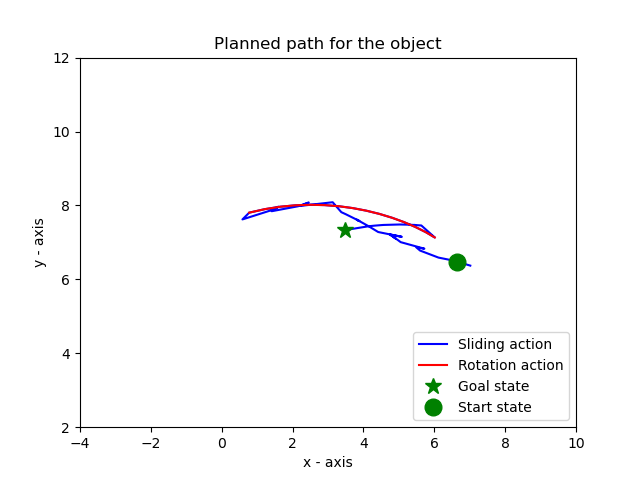
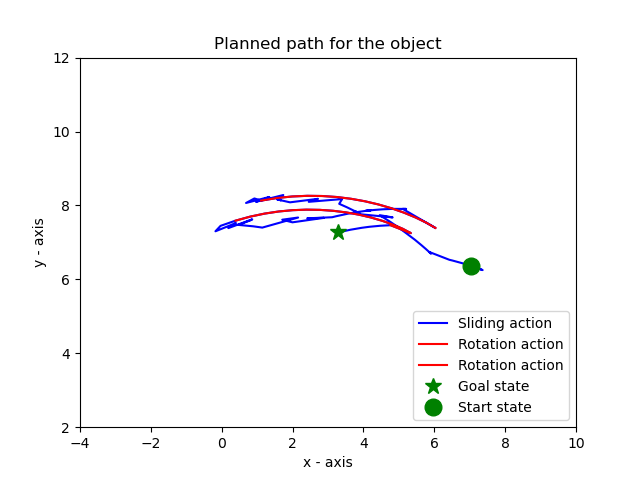
New Plot

Changed region(s): [[0.3438, 0.4062, 0.6875, 0.5312], [0.6562, 0.6562, 0.875, 0.75], [0.6875, 0.5312, 0.75, 0.5938]]

diff --git a/Friction_Finger_Gripper_DQN/main.py b/Friction_Finger_Gripper_DQN/main.py
@@ -622,7 +622,7 @@ if __name__ == '__main__':
         actions=[]
         start, goal = env.reset()
         start = (10, 7.2, -90)
-        goal = (8, 8, 0)
+        goal = (8, 8, 90)
         c_state = np.concatenate((np.array(start), np.array(goal)))
 
         env.current_state = start
